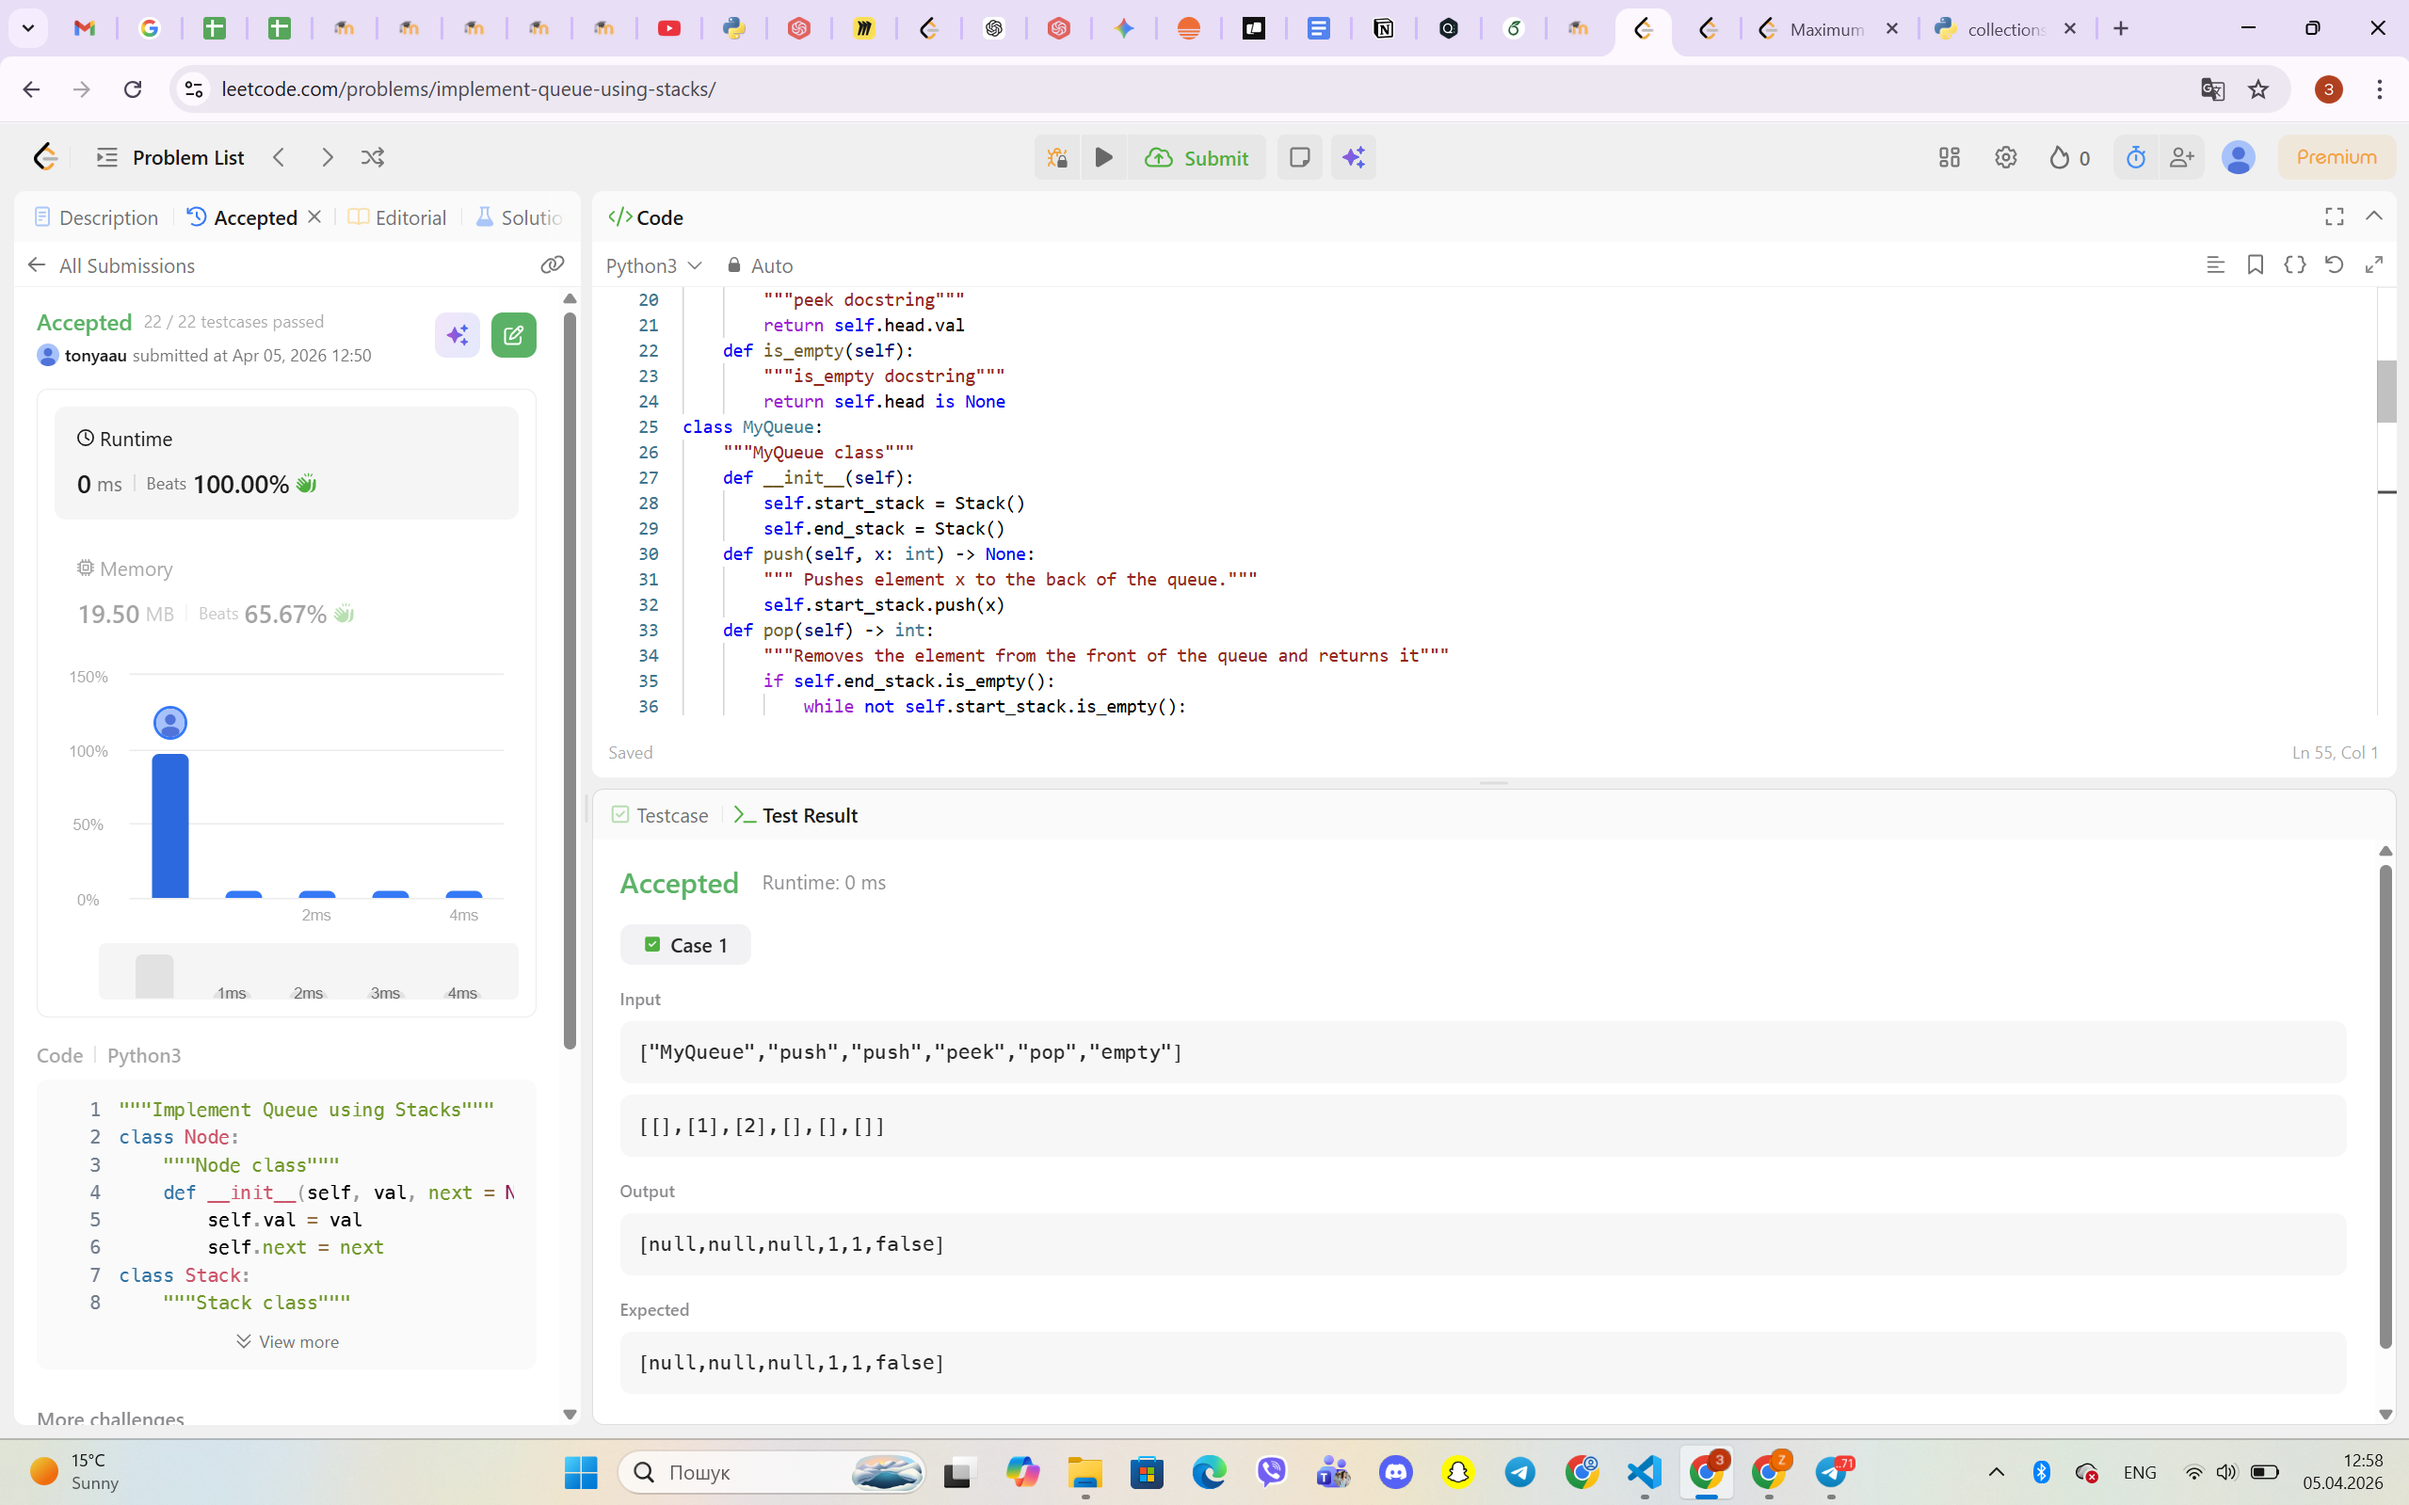
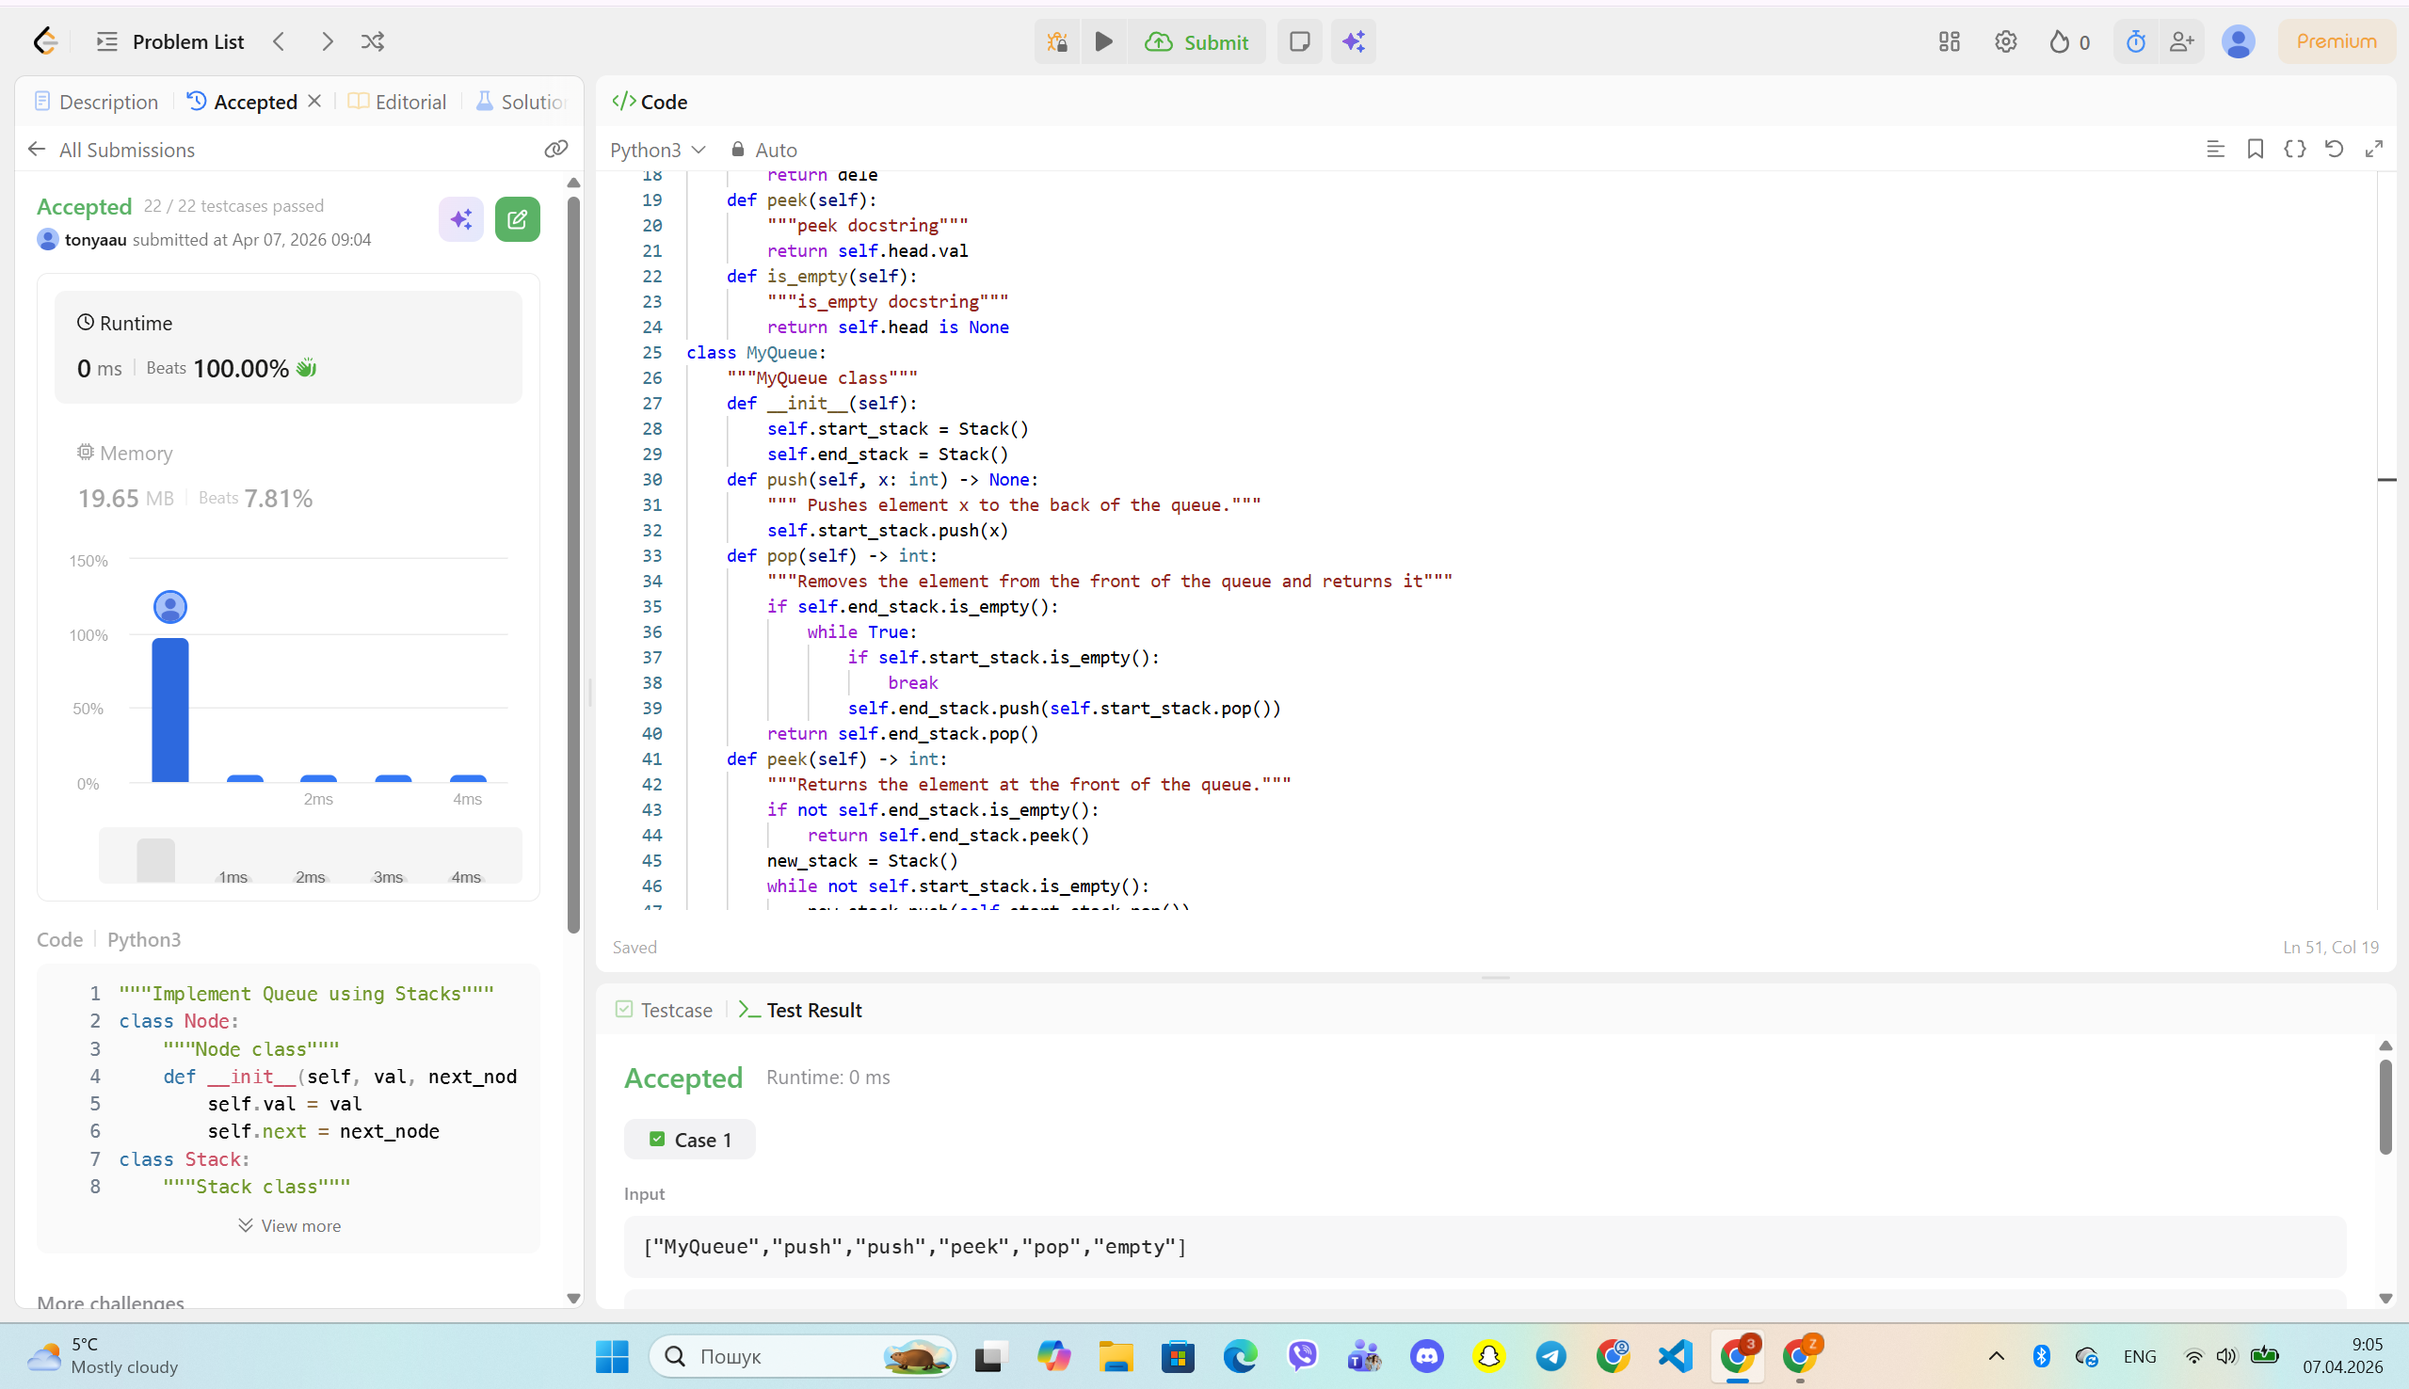
Added queue using 2 stacks

diff --git a/implement_queue_using_stacks/solution.py b/implement_queue_using_stacks/solution.py
@@ -33,15 +33,22 @@ class MyQueue:
     def pop(self) -> int:
         """Removes the element from the front of the queue and returns it"""
         if self.end_stack.is_empty():
-            while not self.start_stack.is_empty():
+            while True:
+                if self.start_stack.is_empty():
+                    break
                 self.end_stack.push(self.start_stack.pop())
         return self.end_stack.pop()
     def peek(self) -> int:
         """Returns the element at the front of the queue."""
-        if self.end_stack.is_empty():
-            while not self.start_stack.is_empty():
-                self.end_stack.push(self.start_stack.pop())
-        return self.end_stack.peek()
+        if not self.end_stack.is_empty():
+            return self.end_stack.peek()
+        new_stack = Stack()
+        while not self.start_stack.is_empty():
+            new_stack.push(self.start_stack.pop())
+        val = new_stack.peek()
+        while not new_stack.is_empty():
+            self.start_stack.push(new_stack.pop())
+        return val
     def empty(self) -> bool:
         """Returns true if the queue is empty, false otherwise."""
         return self.start_stack.is_empty() and self.end_stack.is_empty()
